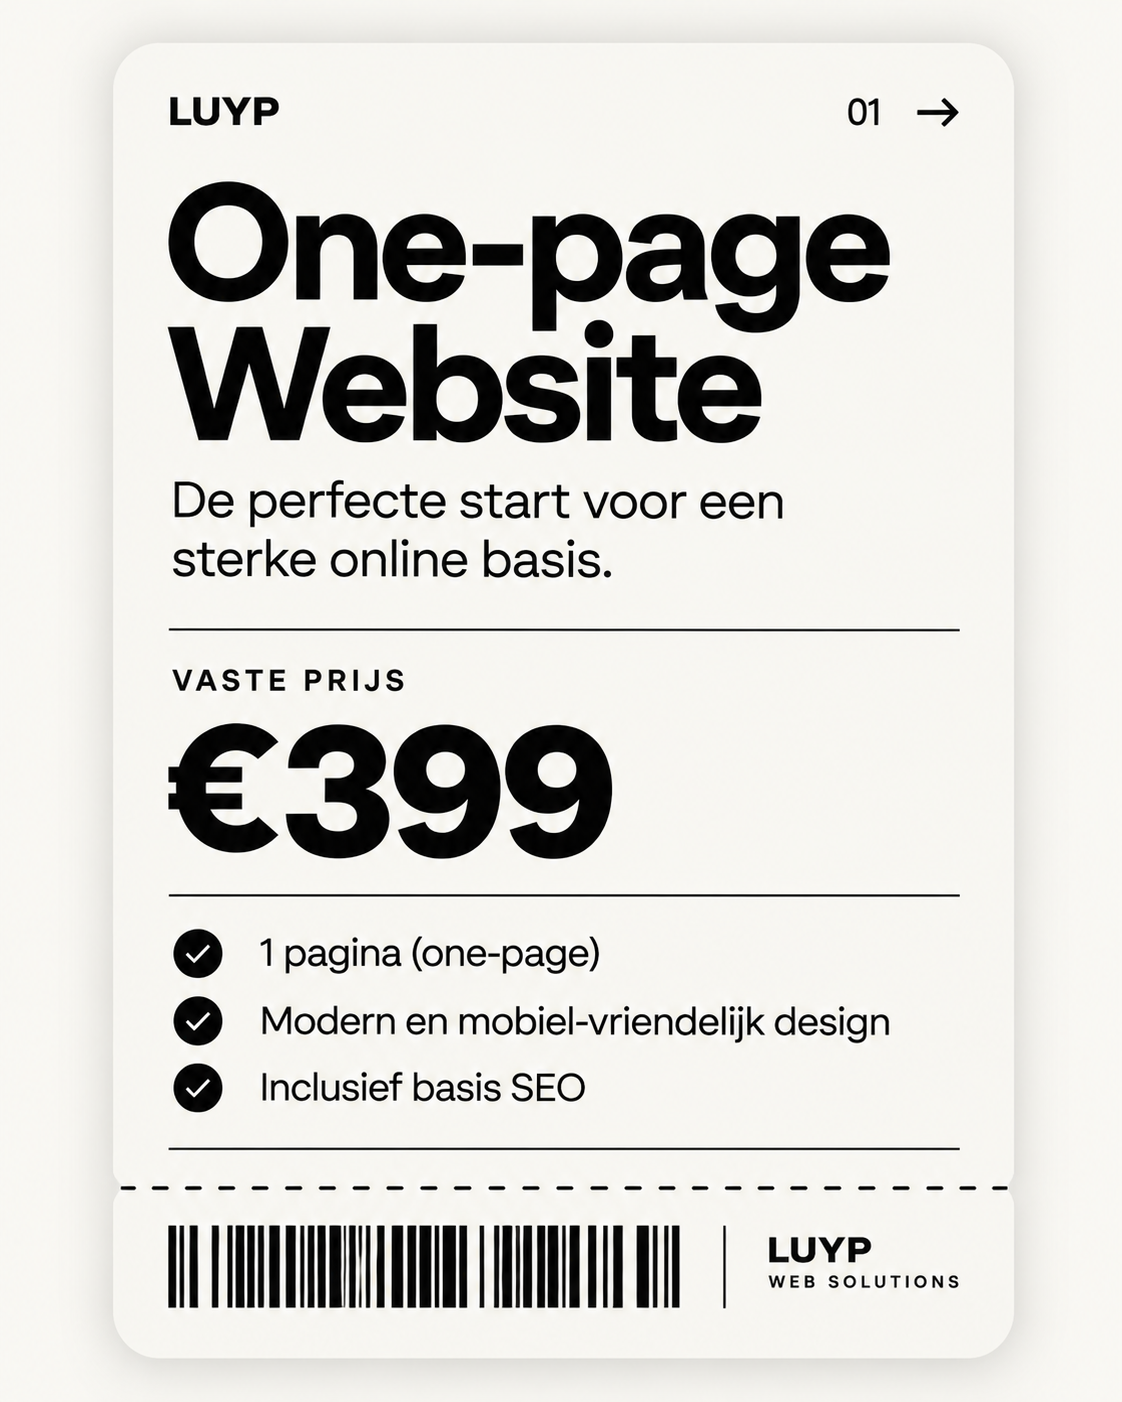
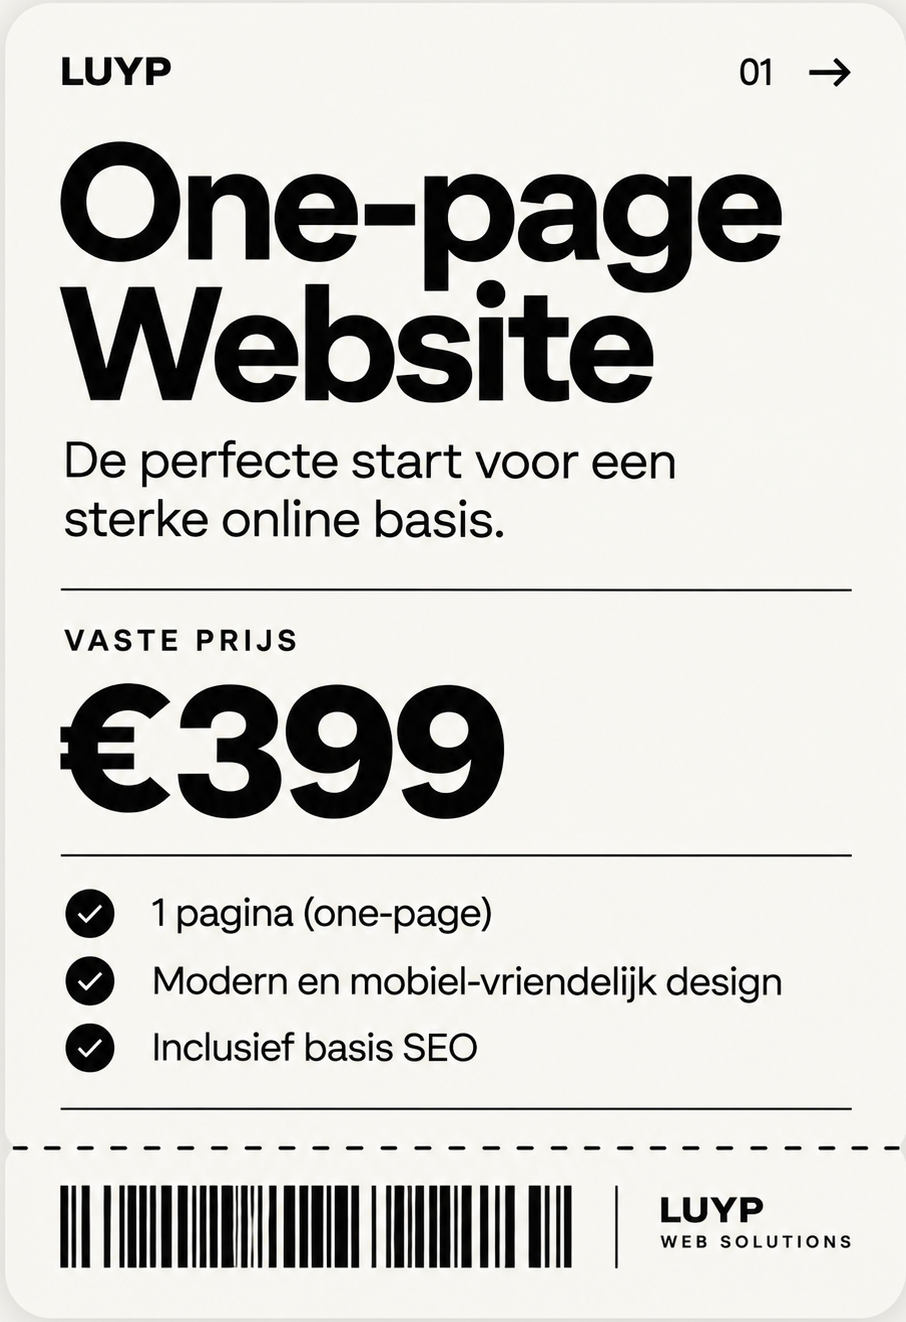
Crop pricing cards and layer them above content

diff --git a/pricing-motion.css b/pricing-motion.css
@@ -1,2 +1,2 @@
-.pricing-section{position:relative;min-height:220vh;padding:60px 8% 130px;background:var(--cream);overflow:visible}.pricing-deck{position:sticky;top:15vh;display:grid;grid-template-columns:repeat(3,minmax(0,1fr));gap:18px;align-items:start}.price-card{position:relative;width:100%;height:max-content;line-height:0;opacity:var(--card-opacity,0);transform:translate3d(0,var(--card-y,120px),0) rotate(var(--card-rotate,0deg));transform-origin:50% 100%;will-change:transform,opacity;filter:drop-shadow(0 24px 30px rgba(17,17,15,.12));transition:transform .35s ease,filter .3s ease}.price-card img{display:block;width:100%;height:auto;border-radius:4px}.price-card:nth-child(1){z-index:3}.price-card:nth-child(2){z-index:2}.price-card:nth-child(3){z-index:1}@media (hover:hover){.price-card:hover{z-index:10;transform:translate3d(0,var(--card-y,0),0) rotate(var(--card-rotate,0deg)) scale(1.045);filter:drop-shadow(0 30px 36px rgba(17,17,15,.2))}}
+.pricing-section{position:relative;z-index:20;min-height:220vh;padding:60px 8% 130px;background:var(--cream);overflow:visible}.pricing-deck{position:sticky;z-index:30;top:15vh;display:grid;grid-template-columns:repeat(3,minmax(0,1fr));gap:18px;align-items:start}.price-card{position:relative;width:100%;height:max-content;line-height:0;opacity:var(--card-opacity,0);transform:translate3d(0,var(--card-y,120px),0) rotate(var(--card-rotate,0deg));transform-origin:50% 100%;will-change:transform,opacity;filter:drop-shadow(0 24px 30px rgba(17,17,15,.12));transition:transform .35s ease,filter .3s ease}.price-card img{display:block;width:100%;height:auto;border-radius:42px;clip-path:inset(0 round 42px)}.price-card:nth-child(1){z-index:3}.price-card:nth-child(2){z-index:2}.price-card:nth-child(3){z-index:1}@media (hover:hover){.price-card:hover{z-index:10;transform:translate3d(0,var(--card-y,0),0) rotate(var(--card-rotate,0deg)) scale(1.045);filter:drop-shadow(0 30px 36px rgba(17,17,15,.2))}}
 @media(max-width:800px){.pricing-section{min-height:230vh;padding:60px 7% 80px}.pricing-deck{position:sticky;top:15vh;display:flex;flex-direction:column;gap:22px}.price-card{width:min(100%,430px);margin:0 auto}}

diff --git a/index.html b/index.html
@@ -10,7 +10,7 @@
   <link href="https://fonts.googleapis.com/css2?family=DM+Sans:wght@400;500;600;700&family=Space+Grotesk:wght@400;500;600;700&display=swap" rel="stylesheet">
   <link rel="stylesheet" href="styles.css?v=intro-mobile-1" />
   <link rel="stylesheet" href="services-motion.css?v=panther-hover-6" />
-  <link rel="stylesheet" href="pricing-motion.css?v=price-cards-2" />
+  <link rel="stylesheet" href="pricing-motion.css?v=price-cards-3" />
 </head>
 <body>
   <div class="page-shell">
